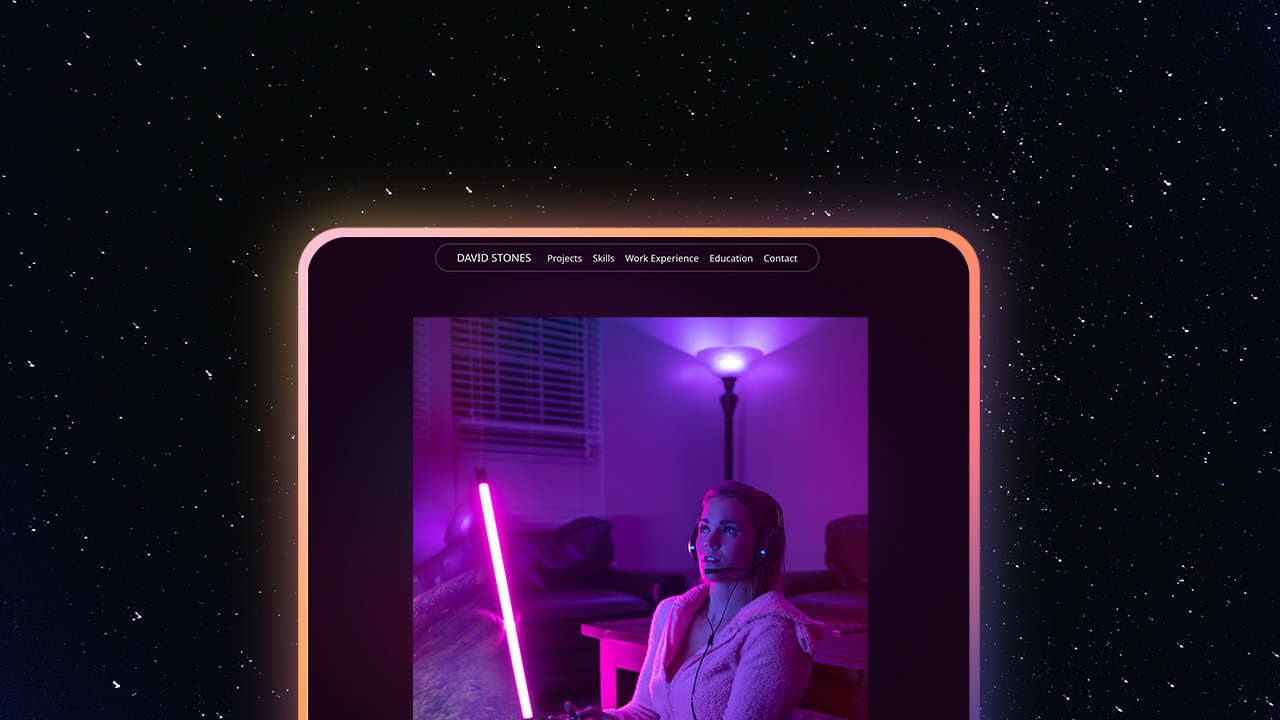
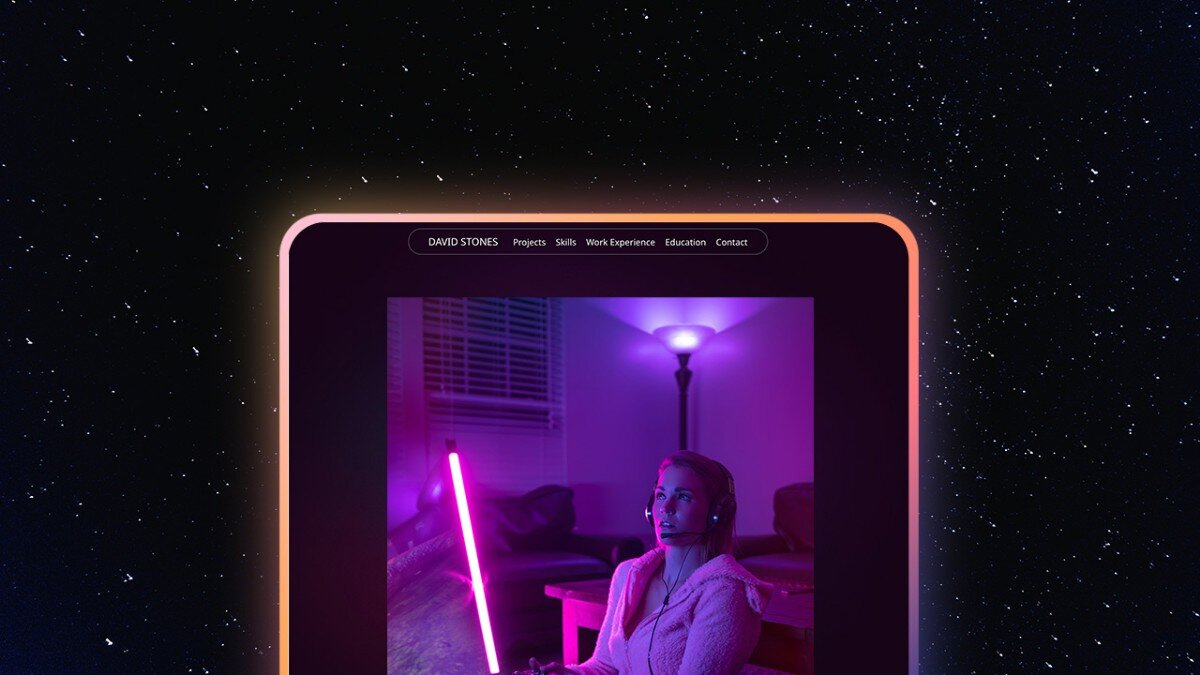
created responsive hero section

diff --git a/src/components/HeroSection.jsx b/src/components/HeroSection.jsx
@@ -1,24 +1,90 @@
 import React from "react";
-import { HERO_CONTENT } from "../constants/index";
+import { HERO_CONTENT, BRAND_LOGOS } from "../constants/index";
+import heroImage from "../assets/hero.jpg";
+import { motion } from "framer-motion";
+
+const containerVariants = {
+  hidden: { opacity: 0 },
+  visible: { opacity: 1, transition: { straggerChildern: 0.2 } },
+};
+
+const fadeInUp = {
+  hidden: { opacity: 0, y: 20 },
+  visible: { opacity: 1, y: 0, transition: { duration: 0.6 } },
+};
+
+const fadeIn = {
+  hidden: { opacity: 0 },
+  visible: { opacity: 1, transition: { duration: 0.6 } },
+};
 
 const HeroSection = () => {
   return (
-    <section className="pt-20 lg:pt-36">
+    <motion.section
+      variants={containerVariants}
+      initial="hidden"
+      animate="visible"
+      className="pt-20 lg:pt-36"
+    >
       <div className="max-w-7xl mx-auto px-4 flex flex-col items-center text-center">
-        <div className="mb-8 border-neutral-800 px-3 py-2 rounded-full text-xs">
+        <motion.div
+          variants={fadeInUp}
+          className="m-8 border-neutral-800 px-3 py-2 rounded-full text-xs"
+        >
           {HERO_CONTENT.badgeText}
-        </div>
-        <h1 className="text-5xl lg:text-8xl my-4 font-semibold tracking-tighter bg-linear-to-b from-neutral-50 via-neutral-300 to-neutral-700 bg-clip-text text-transparent">
-          {HERO_CONTENT.mainHeading.split("\n").map((text, index) => (
-            <span key={index}>{text}</span>
-          ))}
-        </h1>
+        </motion.div>
+        <motion.h1
+          variants={fadeInUp}
+          className="text-5xl lg:text-8xl my-4 font-semibold tracking-tighter bg-linear-to-b from-neutral-50 via-neutral-300 to-neutral-700 bg-clip-text text-transparent"
+        >
+          The Ultimate <span className="flex">Streaming Toolkit+</span>
+        </motion.h1>
 
-        <p className="mt-6 text-neutral-400 max-w-xl">
+        <motion.p
+          variants={fadeInUp}
+          className="mt-6 text-neutral-400 max-w-xl"
+        >
           {HERO_CONTENT.subHeading}
-        </p>
+        </motion.p>
+
+        <motion.div variants={fadeInUp} className="mt-6 space-x-4">
+          <a
+            href="#"
+            className="inline-block bg-blue-600 hover:bg-blue-500 text-white py-3 px-6 rounded-lg font-medium"
+          >
+            {HERO_CONTENT.callToAction.primary}
+          </a>
+          <a
+            href="#"
+            className="inline-block border border-gray-500 hover:border-gray-400 text-white py-3 px-6 rounded-lg font-medium"
+          >
+            {HERO_CONTENT.callToAction.secondary}
+          </a>
+        </motion.div>
+
+        <motion.div variants={fadeIn} className="p-10">
+          <p className="text-gray-400 text-center mb-8">
+            {HERO_CONTENT.trustedByText}
+          </p>
+          <motion.div
+            variants={fadeInUp}
+            className="flex flex-wrap justify-center gap-8"
+          >
+            {BRAND_LOGOS.map((logo, index) => (
+              <img key={index} src={logo.src} alt={logo.alt} className="h-8" />
+            ))}
+          </motion.div>
+        </motion.div>
+
+        <motion.div variants={fadeInUp} classname="mt-12">
+          <img
+            src={heroImage}
+            alt="Streamer SaaS Interface"
+            className="w-full h-auto rounded-3xl border border-neutral-800 mb-20"
+          />
+        </motion.div>
       </div>
-    </section>
+    </motion.section>
   );
 };
 

diff --git a/src/components/Navbar.jsx b/src/components/Navbar.jsx
@@ -12,14 +12,14 @@ const Navbar = () => {
   }
   return (
     <header className=" fixed top-4 left-0 right-0 z-50">
-      <div className="text-neutral-500 bg-black/60 backdrop-blur-md max-w-7xl mx-auto px-4 py-3 flex justify-between items-center rounded-xl border border-neutral-800">
+      <div className="text-neutral-500 bg-black/60 backdrop-blur-md max-w-7xl mx-auto px-4 py-3 flex justify-between items-center rounded-xl border-2 border-neutral-800">
         {/* -----------left:logo -----------*/}
         <a href="/">
           <img src={logo} alt="logo" width={120} hight={24} />
         </a>
 
         {/* center:nav links */}
-        <nav className="hidden md:flex space-x-6">
+        <nav className="hidden md:flex space-x-8">
           <a href="/" className="hover:text-neutral-200">
             Home
           </a>
@@ -41,7 +41,7 @@ const Navbar = () => {
           </a>
           <a
             href="#"
-            className="flex gap-1 items-center border border-neutral-700 text-white py-2 px-4 rounded-lg hover:bg-neutral-700 transition"
+            className="flex gap-1 items-center border-2 border-neutral-700 text-white py-2 px-4 rounded-lg hover:bg-neutral-700 transition"
           >
             Get Demo{" "}
             <span className="pt-0.5 text-xs">

diff --git a/src/index.css b/src/index.css
@@ -1,1 +1,6 @@
 @import "tailwindcss";
+@import url("https://fonts.googleapis.com/css2?family=Nunito+Sans:ital,opsz,wght@0,6..12,200..1000;1,6..12,200..1000&display=swap");
+
+* {
+  font-family: "Nunito Sans", sans-serif;
+}
